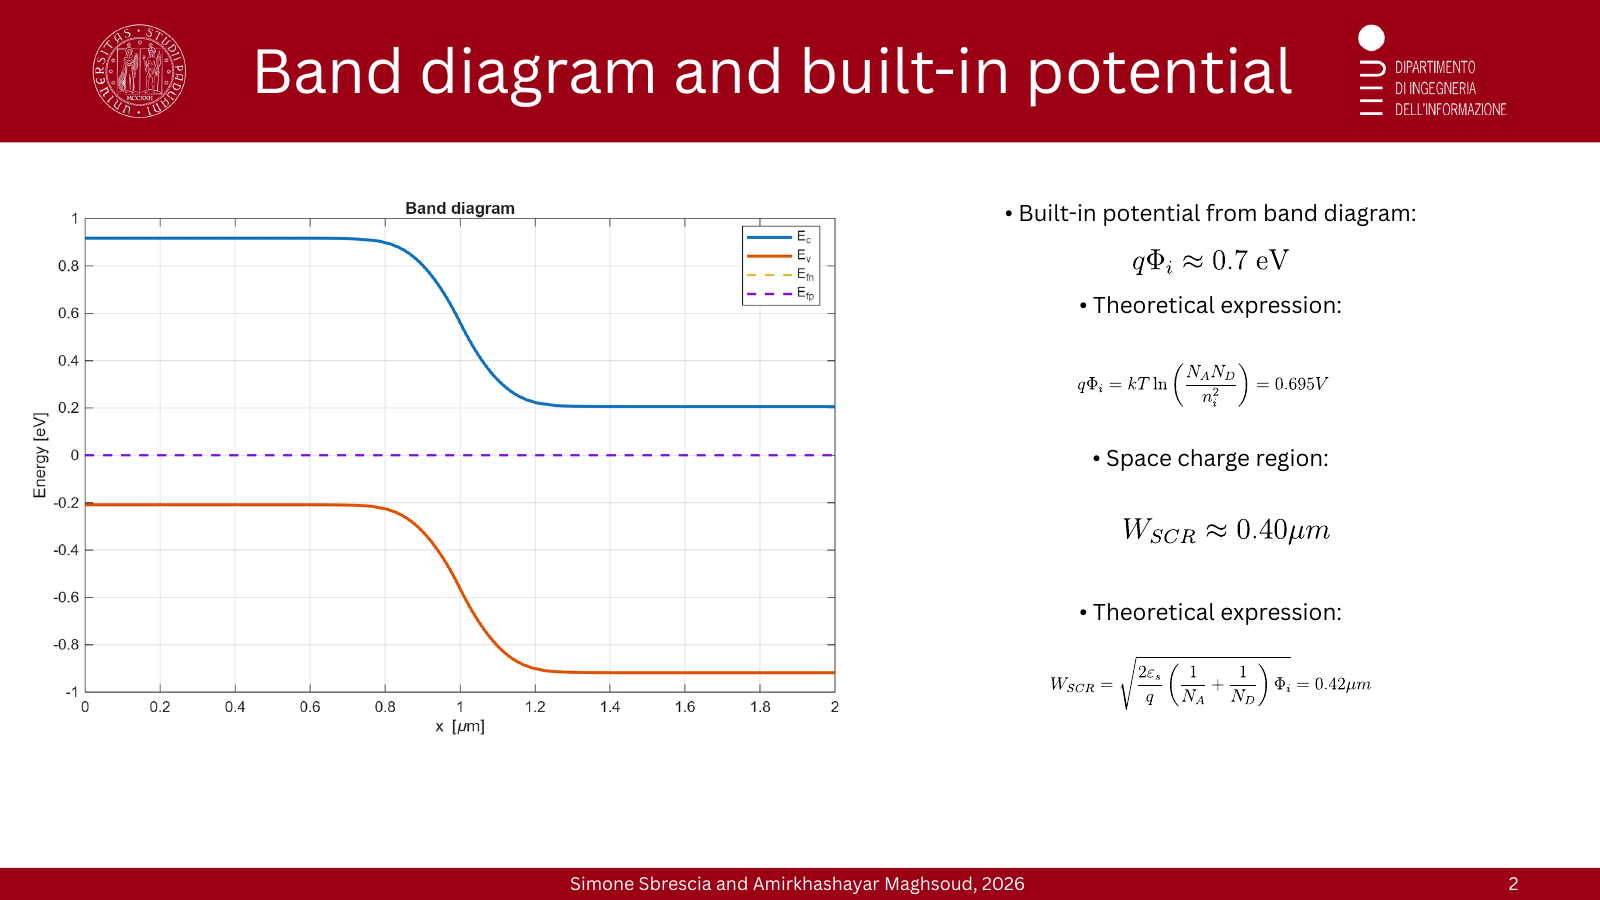
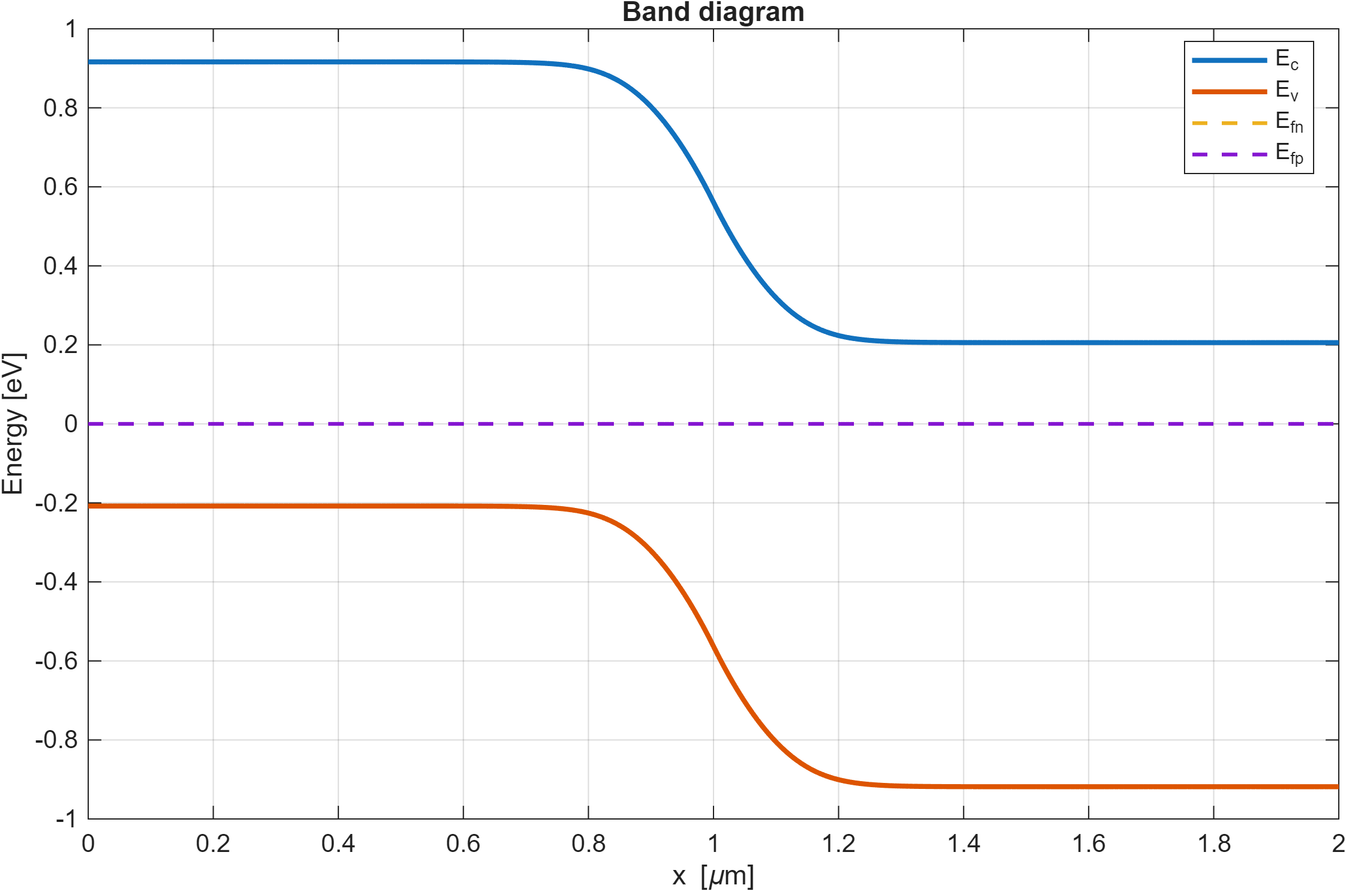
Use the original simulation and measurement plots instead of slide renders

diff --git a/03-mosfet/README.md b/03-mosfet/README.md
@@ -2,16 +2,38 @@
 
 [Full report (PDF)](report.pdf) · June 2026
 
-## A. TCAD: 130 nm n-MOSFET
+## A. TCAD: 130 nm n-MOSFET (Synopsys Sentaurus)
 
 - **Band diagrams** along vertical and horizontal cutlines at equilibrium, at V<sub>GS</sub> = 1.5 V / V<sub>DS</sub> = 0, and at V<sub>GS</sub> = V<sub>DS</sub> = 1.5 V. They show inversion forming, and the quasi-Fermi levels splitting once current flows.
+
+<table>
+<tr>
+<td width="33%"><img src="figures/tcad-bands-equilibrium.png" alt="Bands at equilibrium"></td>
+<td width="33%"><img src="figures/tcad-bands-vgs.png" alt="Bands at VGS = 1.5 V"></td>
+<td width="33%"><img src="figures/tcad-bands-vgs-vds.png" alt="Bands at VGS = VDS = 1.5 V"></td>
+</tr>
+<tr>
+<td align="center">Equilibrium</td>
+<td align="center">V<sub>GS</sub> = 1.5 V, V<sub>DS</sub> = 0</td>
+<td align="center">V<sub>GS</sub> = V<sub>DS</sub> = 1.5 V</td>
+</tr>
+</table>
+
 - **Substrate doping sweep** (10<sup>17</sup>, 5×10<sup>17</sup>, 10<sup>18</sup> cm<sup>-3</sup>; L<sub>G</sub> = 130 nm, t<sub>ox</sub> = 2.5 nm): V<sub>th</sub> falls as N<sub>sub</sub> falls, because there is less bulk depletion charge and a smaller φ<sub>F</sub>.
 - **Oxide thickness sweep** (2.5, 10, 20 nm): thicker oxide lowers C<sub>ox</sub> and weakens gate control. V<sub>th</sub> rises sharply and the subthreshold slope degrades.
 
 Both trends are explained with V<sub>th</sub> = V<sub>FB</sub> + 2φ<sub>F</sub> + √(4ε<sub>Si</sub>qN<sub>sub</sub>φ<sub>F</sub>)/C<sub>ox</sub>.
 
-![Substrate doping](figures/tcad-substrate-doping.png)
-![Oxide thickness](figures/tcad-oxide-thickness.png)
+<table>
+<tr>
+<td width="50%"><img src="figures/tcad-substrate-doping.png" alt="Substrate doping sweep"></td>
+<td width="50%"><img src="figures/tcad-oxide-thickness.png" alt="Oxide thickness sweep"></td>
+</tr>
+<tr>
+<td align="center">I<sub>D</sub>–V<sub>GS</sub> vs substrate doping</td>
+<td align="center">I<sub>D</sub>–V<sub>GS</sub> vs oxide thickness</td>
+</tr>
+</table>
 
 ## B. Lab: experimental DC and AC characterization
 
@@ -23,17 +45,50 @@ Both trends are explained with V<sub>th</sub> = V<sub>FB</sub> + 2φ<sub>F</sub>
 | On-resistance R<sub>ON</sub> | Inverse slope of I<sub>D</sub>–V<sub>D</sub> in deep ohmic region (0–0.1 V, max V<sub>G</sub>) | **9.1 Ω** |
 | Subthreshold slope SS | Semilog I<sub>D</sub>–V<sub>G</sub>, 2.1 V < V<sub>GS</sub> < 2.7 V | **237.5 mV/dec** |
 
+<table>
+<tr>
+<td width="50%"><img src="figures/lab-id-vg-semilog.png" alt="ID–VG semilog"></td>
+<td width="50%"><img src="figures/lab-id-vd-linear.png" alt="ID–VD linear"></td>
+</tr>
+<tr>
+<td align="center">I<sub>D</sub>–V<sub>G</sub>, semilog</td>
+<td align="center">I<sub>D</sub>–V<sub>D</sub>, linear</td>
+</tr>
+<tr>
+<td width="50%"><img src="figures/lab-vth-extraction.png" alt="Threshold voltage extraction"></td>
+<td width="50%"><img src="figures/lab-subthreshold-slope.png" alt="Subthreshold slope extraction"></td>
+</tr>
+<tr>
+<td align="center">V<sub>th</sub> extraction</td>
+<td align="center">Subthreshold slope extraction</td>
+</tr>
+</table>
+
 Transconductance g<sub>m</sub> rises with V<sub>DS</sub> and then drops at high V<sub>GS</sub> because of mobility degradation (surface scattering in the strong vertical field).
 
 **AC (MOS capacitor)**
 
-- Multi-frequency C–V shows accumulation, depletion and inversion. G–V peaks near the depletion–inversion transition point to interface states and series resistance.
+- Multi-frequency C–V (1 kHz to 1 MHz) shows accumulation, depletion and inversion. G–V peaks near the depletion–inversion transition point to interface states and series resistance.
 - **1 MHz C–V hysteresis:** a flat-band shift between forward and backward sweeps, caused by charge trapping at the Si/SiO₂ interface and in the oxide.
 - **Parameter extraction** (effective area 0.003 cm²): C<sub>ox</sub> = 4.54×10<sup>-10</sup> F, C<sub>min</sub> = 2.29×10<sup>-10</sup> F → **t<sub>ox</sub> = 22.84 nm**, **N<sub>A</sub> = 2.54×10<sup>17</sup> cm<sup>-3</sup>**.
 
-![DC characteristics](figures/lab-dc-characteristics.png)
-![DC parameters](figures/lab-dc-parameters.png)
-![C–V and G–V](figures/lab-cv-gv.png)
-![t_ox and N_A extraction](figures/lab-tox-na-extraction.png)
+<table>
+<tr>
+<td width="50%"><img src="figures/lab-cv-multifrequency.png" alt="C–V at several frequencies"></td>
+<td width="50%"><img src="figures/lab-gv-multifrequency.png" alt="G–V at several frequencies"></td>
+</tr>
+<tr>
+<td align="center">C–V, 1 kHz to 1 MHz</td>
+<td align="center">G–V, 1 kHz to 1 MHz</td>
+</tr>
+<tr>
+<td width="50%"><img src="figures/lab-cv-hysteresis.png" alt="C–V hysteresis"></td>
+<td width="50%"><img src="figures/lab-tox-na-extraction.png" alt="tox and NA extraction"></td>
+</tr>
+<tr>
+<td align="center">Forward/backward sweep at 1 MHz</td>
+<td align="center">t<sub>ox</sub> and N<sub>A</sub> extraction</td>
+</tr>
+</table>
 
 **Authors:** L. Ferrari, A. Maghsoud, S. Sbrescia

diff --git a/02-schottky-contacts/README.md b/02-schottky-contacts/README.md
@@ -7,11 +7,30 @@
 **Goal:** compare a Si and a wide-bandgap SiC Schottky diode and extract their barrier and doping parameters.
 
 **Method**
-1. Measure I–V on a Peltier-controlled stage across temperature (automated LabVIEW sweeps).
+1. Measure I–V on a Peltier-controlled stage from 15 °C to 70 °C (automated LabVIEW sweeps).
 2. Fit the Shockley equation at each temperature to get η(T) and I<sub>S</sub>(T).
 3. Build a **Richardson plot**, ln(I<sub>S</sub>/T²) against q/kT. Its slope gives the Schottky barrier height (SBH).
 4. Measure C–V at 1 MHz, then use a **Mott–Schottky** (1/C² vs V) fit. The x-intercept gives V<sub>bi</sub> and the slope gives the doping, which together give the effective device area.
 5. Check that the impedance phase stays near −90° (pure capacitive response) across the bias range.
+
+<table>
+<tr>
+<td width="50%"><img src="figures/lab-si-iv-vs-temperature.png" alt="Si Schottky I–V vs temperature"></td>
+<td width="50%"><img src="figures/lab-sic-iv-vs-temperature.png" alt="SiC Schottky I–V vs temperature"></td>
+</tr>
+<tr>
+<td align="center">Si diode, 15–70 °C</td>
+<td align="center">SiC diode, 15–70 °C</td>
+</tr>
+<tr>
+<td width="50%"><img src="figures/lab-richardson-si.png" alt="Richardson plot Si"></td>
+<td width="50%"><img src="figures/lab-richardson-sic.png" alt="Richardson plot SiC"></td>
+</tr>
+<tr>
+<td align="center">Richardson plot, Si</td>
+<td align="center">Richardson plot, SiC</td>
+</tr>
+</table>
 
 **Results**
 
@@ -25,19 +44,61 @@
 - The SiC diode has a much higher barrier height than the Si diode, in line with its wide bandgap.
 - 1/C² is linear in deep reverse bias for both devices, which indicates uniform doping.
 
-![Richardson plot](figures/lab-richardson-sbh.png)
-![Mott–Schottky analysis](figures/lab-mott-schottky.png)
-![Ideality factor and saturation current](figures/lab-ideality-saturation.png)
+<table>
+<tr>
+<td width="50%"><img src="figures/lab-cv-si-vs-sic.png" alt="C–V at 1 MHz"></td>
+<td width="50%"><img src="figures/lab-mott-schottky.png" alt="Mott–Schottky plot"></td>
+</tr>
+<tr>
+<td align="center">C–V at 1 MHz</td>
+<td align="center">Mott–Schottky (1/C²) fits</td>
+</tr>
+<tr>
+<td width="50%"><img src="figures/lab-si-ideality-saturation.png" alt="Si ideality and saturation current"></td>
+<td width="50%"><img src="figures/lab-impedance-phase.png" alt="Impedance phase"></td>
+</tr>
+<tr>
+<td align="center">Si: η and I<sub>S</sub> vs temperature</td>
+<td align="center">Impedance phase at 1 MHz</td>
+</tr>
+</table>
 
-## B. TCAD: Au/GaAs metal–semiconductor junction
+## B. TCAD: Au/GaAs metal–semiconductor junction (Synopsys Sentaurus)
 
 - **n-type GaAs + Au (φ<sub>m</sub> = 5.47 eV):** upward band bending forms a Schottky barrier, and the I–V is clearly rectifying.
 - **p-type GaAs + Au:** no significant barrier for holes, and the I–V is linear (ohmic). The same metal gives opposite contact types depending on the semiconductor's doping type.
+
+<table>
+<tr>
+<td width="50%"><img src="figures/tcad-n-gaas-band-diagram.png" alt="n-GaAs band diagram"></td>
+<td width="50%"><img src="figures/tcad-n-gaas-iv.png" alt="n-GaAs I–V"></td>
+</tr>
+<tr>
+<td align="center">Au / n-GaAs: band diagram</td>
+<td align="center">Au / n-GaAs: rectifying I–V</td>
+</tr>
+<tr>
+<td width="50%"><img src="figures/tcad-p-gaas-band-diagram.png" alt="p-GaAs band diagram"></td>
+<td width="50%"><img src="figures/tcad-p-gaas-iv.png" alt="p-GaAs I–V"></td>
+</tr>
+<tr>
+<td align="center">Au / p-GaAs: band diagram</td>
+<td align="center">Au / p-GaAs: ohmic I–V</td>
+</tr>
+</table>
+
 - **C–V:** capacitance falls with reverse bias, and 1/C² is linear for uniform doping.
 - **Heavy doping (10<sup>20</sup> cm<sup>-3</sup>) with tunnelling enabled:** the depletion width (W ∝ 1/√N) becomes thin enough for field emission. The contact turns ohmic even with a high-work-function metal, which is the physics behind real ohmic contacts.
 
-![n-MS rectifying contact](figures/tcad-n-ms-rectifying.png)
-![Tunnelling at high doping](figures/tcad-tunnelling.png)
-![TCAD C–V](figures/tcad-cv.png)
+<table>
+<tr>
+<td width="50%"><img src="figures/tcad-mott-schottky.png" alt="Simulated Mott–Schottky"></td>
+<td width="50%"><img src="figures/tcad-tunnelling-iv.png" alt="Tunnelling I–V"></td>
+</tr>
+<tr>
+<td align="center">Simulated 1/C² vs V</td>
+<td align="center">I–V with and without heavy doping (tunnelling)</td>
+</tr>
+</table>
 
 **Authors:** L. Ferrari, A. Maghsoud, S. Sbrescia

diff --git a/01-pn-junction/README.md b/01-pn-junction/README.md
@@ -11,6 +11,17 @@
 2. Fit the Shockley equation, I = I<sub>S</sub>(e<sup>qV/ηkT</sup> − 1), in the linear semilog region (0.20–0.35 V) to get I<sub>S</sub> and η at each temperature.
 3. Use the model I<sub>S</sub> = B·T<sup>3+γ/2</sup>·exp(−qE<sub>g</sub>/kT) and fit ln I<sub>S</sub> against 1/kT. The slope gives E<sub>g</sub>.
 
+<table>
+<tr>
+<td width="50%"><img src="figures/lab-iv-vs-temperature.png" alt="I–V at different temperatures"></td>
+<td width="50%"><img src="figures/lab-shockley-fits.png" alt="Shockley fits in the exponential region"></td>
+</tr>
+<tr>
+<td align="center">Measured I–V from 25 °C to 70 °C</td>
+<td align="center">Shockley fits between 0.20 V and 0.35 V</td>
+</tr>
+</table>
+
 **Results**
 
 | T [°C] | I<sub>S</sub> [A] | η |
@@ -25,19 +36,55 @@
 - **E<sub>g</sub> ≈ 1.152 eV**, about 3 % above the textbook 1.12 eV for silicon.
 - η stays close to 1 at every temperature, so transport is dominated by diffusion, as expected for an ideal Si diode.
 
-![Bandgap extraction](figures/bandgap-extraction.png)
-![I–V vs temperature and Shockley fit](figures/iv-temperature-shockley-fit.png)
-![Ideality factor and saturation current](figures/ideality-saturation-vs-T.png)
+<table>
+<tr>
+<td width="50%"><img src="figures/lab-bandgap-extraction.png" alt="Bandgap extraction"></td>
+<td width="50%"><img src="figures/lab-ideality-saturation.png" alt="Ideality factor and saturation current"></td>
+</tr>
+<tr>
+<td align="center">Arrhenius fit of I<sub>S</sub>: E<sub>g</sub> = 1.152 eV</td>
+<td align="center">Ideality factor and saturation current vs temperature</td>
+</tr>
+</table>
 
-## B. TCAD: PN junction physics
+## B. TCAD: PN junction physics (Synopsys Sentaurus)
 
 - **Equilibrium:** carrier densities, electric field and electrostatic potential across the junction. The field peaks in the depletion region.
 - **Band diagram:** built-in potential and space-charge-region width read from the simulation and compared with analytical expressions.
+
+<table>
+<tr>
+<td width="33%"><img src="figures/tcad-carrier-density.png" alt="Electron and hole density"></td>
+<td width="33%"><img src="figures/tcad-electric-field.png" alt="Electric field"></td>
+<td width="33%"><img src="figures/tcad-band-diagram.png" alt="Band diagram"></td>
+</tr>
+<tr>
+<td align="center">Carrier densities</td>
+<td align="center">Electric field</td>
+<td align="center">Band diagram</td>
+</tr>
+</table>
+
 - **I–V:** exponential forward current; series resistance bends the semilog curve near 0.7–0.8 V.
 - **Parametric study:** effect of doping level, device length and material (Si vs Ge). Ge's smaller bandgap gives a higher intrinsic carrier density, so it has a lower forward voltage and a higher current.
 
-![TCAD equilibrium](figures/tcad-equilibrium.png)
-![TCAD band diagram](figures/tcad-band-diagram.png)
-![Doping and geometry](figures/tcad-doping-geometry.png)
+<table>
+<tr>
+<td width="50%"><img src="figures/tcad-iv-semilog.png" alt="I–V semilog"></td>
+<td width="50%"><img src="figures/tcad-iv-si-vs-ge.png" alt="Si vs Ge"></td>
+</tr>
+<tr>
+<td align="center">Simulated I–V, semilog scale</td>
+<td align="center">Silicon vs germanium</td>
+</tr>
+<tr>
+<td width="50%"><img src="figures/tcad-iv-doping.png" alt="Doping dependence"></td>
+<td width="50%"><img src="figures/tcad-iv-geometry.png" alt="Geometry dependence"></td>
+</tr>
+<tr>
+<td align="center">Doping dependence</td>
+<td align="center">Geometry (W<sub>n</sub>) dependence</td>
+</tr>
+</table>
 
 **Authors:** A. Maghsoud, S. Sbrescia
